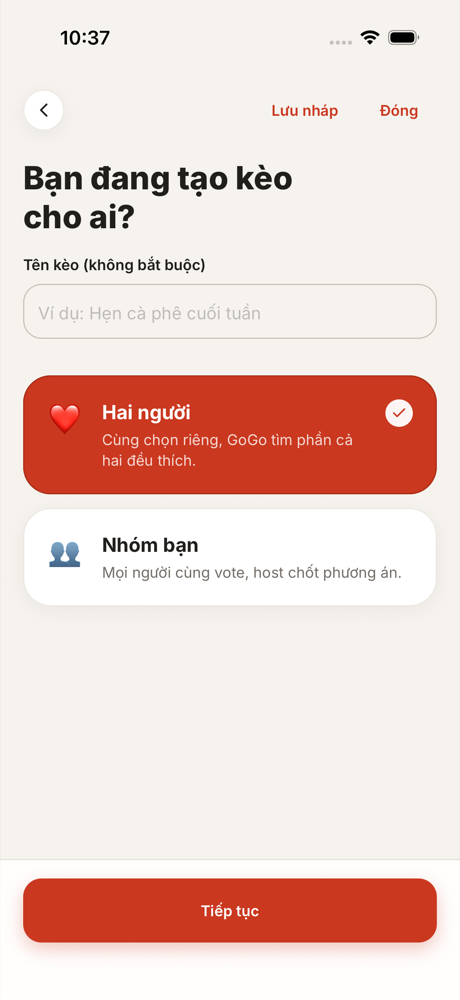
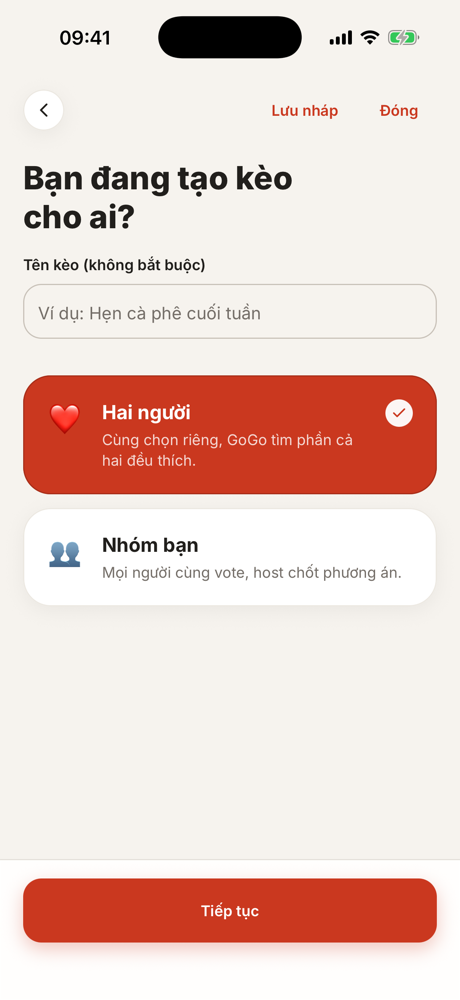
feat: refresh app screenshots with current UI
Seven iOS captures of the redesigned app (develop 63aa2e0 on DEV), one
demo room end to end; credit the Commons photo visible in the vote shot.

diff --git a/site/index.html b/site/index.html
@@ -224,6 +224,7 @@
     footer { padding: 28px 0 44px; border-top: 1px solid var(--line); color: var(--muted); font-size: 14px; }
     footer .wrap { display: flex; flex-wrap: wrap; gap: 8px 24px; justify-content: space-between; align-items: center; }
     footer a { color: var(--ink-2); display: inline-block; padding: 10px 0; }
+    footer .credits { flex-basis: 100%; order: 3; font-size: 13px; }
 
     @media (prefers-reduced-motion: reduce) {
       html { scroll-behavior: auto; }
@@ -266,8 +267,8 @@
         <p class="note">Chưa có bản tải công khai. Bản dùng thử do đội ngũ sắp xếp qua email.</p>
       </div>
       <div class="hero-shots stage" role="group" aria-label="Ảnh màn hình ứng dụng: bình chọn địa điểm và lịch trình nhóm">
-        <div class="phone android"><div class="island" aria-hidden="true"></div><div class="screen"><img src="/img/vote.png" width="448" height="948" alt="Thẻ bình chọn địa điểm Xofa Café &amp; Bistro với ba nút Không hợp, Thích, Rất muốn" fetchpriority="high"></div></div>
-        <div class="phone android"><div class="island" aria-hidden="true"></div><div class="screen"><img src="/img/plan.png" width="448" height="948" alt="Kế hoạch nhóm 3 người: điểm 1 đã khoá, 3 phút di chuyển tới điểm 2, tổng thời gian 3 giờ 16 phút" fetchpriority="high"></div></div>
+        <div class="phone ios"><div class="island" aria-hidden="true"></div><div class="screen"><img src="/img/vote.png" width="460" height="1000" alt="Thẻ bình chọn Tràng Tiền Plaza có ảnh địa điểm, với ba nút Không hợp, Thích, Rất muốn" fetchpriority="high"></div></div>
+        <div class="phone ios"><div class="island" aria-hidden="true"></div><div class="screen"><img src="/img/plan.png" width="460" height="1000" alt="Kế hoạch nhóm 3 người: điểm 1 Bảo tàng Phụ nữ Việt Nam đã khoá, 6 phút di chuyển tới điểm 2, tổng thời gian 3 giờ 18 phút" fetchpriority="high"></div></div>
       </div>
     </div>
 
@@ -275,15 +276,15 @@
       <div class="wrap">
         <p class="eyebrow">Sản phẩm thực tế</p>
         <h2 id="demo-h">Một buổi đi chơi, từ lúc chọn đến khi về</h2>
-        <p class="sub">Ảnh chụp màn hình bản thử nghiệm nội bộ trên iPhone và Android, với dữ liệu thử nghiệm. Giao diện có thể thay đổi trước khi phát hành.</p>
+        <p class="sub">Ảnh chụp màn hình bản thử nghiệm nội bộ (iOS), với dữ liệu thử nghiệm. Giao diện có thể thay đổi trước khi phát hành.</p>
         <ol class="gallery stage">
           <li class="shot"><figure><div class="phone ios"><div class="island" aria-hidden="true"></div><div class="screen"><img src="/img/create-type.png" width="460" height="1000" loading="lazy" alt="Màn hình tạo kèo với hai lựa chọn: Hai người và Nhóm bạn"></div></div><figcaption><strong>Tạo kèo</strong>Chọn đi hai người hay cả nhóm.</figcaption></figure></li>
-          <li class="shot"><figure><div class="phone android"><div class="island" aria-hidden="true"></div><div class="screen"><img src="/img/mood.png" width="460" height="948" loading="lazy" alt="Màn hình chọn mood, không gian và mức chi tiêu"></div></div><figcaption><strong>Nêu sở thích</strong>Mood, không gian, mức chi — vài chạm là xong.</figcaption></figure></li>
-          <li class="shot"><figure><div class="phone android"><div class="island" aria-hidden="true"></div><div class="screen"><img src="/img/vote.png" width="448" height="948" loading="lazy" alt="Thẻ bình chọn địa điểm Xofa Café &amp; Bistro với ba nút Không hợp, Thích, Rất muốn"></div></div><figcaption><strong>Bình chọn</strong>Mỗi người tự chọn Không hợp, Thích hoặc Rất muốn cho từng địa điểm.</figcaption></figure></li>
-          <li class="shot"><figure><div class="phone android"><div class="island" aria-hidden="true"></div><div class="screen"><img src="/img/match.png" width="448" height="948" loading="lazy" alt="Kết quả nhóm: Xofa Café &amp; Bistro được 2/3 người thích, kèm lý do và các lựa chọn khác"></div></div><figcaption><strong>Kết quả chung</strong>Địa điểm cả nhóm thích nhất, kèm lý do GoGo chọn.</figcaption></figure></li>
-          <li class="shot"><figure><div class="phone android"><div class="island" aria-hidden="true"></div><div class="screen"><img src="/img/plan.png" width="448" height="948" loading="lazy" alt="Kế hoạch nhóm 3 người: điểm 1 đã khoá, 3 phút di chuyển tới điểm 2, tổng thời gian 3 giờ 16 phút"></div></div><figcaption><strong>Lịch trình nhóm</strong>Điểm dừng theo thứ tự và thời gian di chuyển; điểm đã khoá được giữ khi tạo lại.</figcaption></figure></li>
-          <li class="shot"><figure><div class="phone android"><div class="island" aria-hidden="true"></div><div class="screen"><img src="/img/active.png" width="448" height="948" loading="lazy" alt="Màn hình buổi đi đang diễn ra: điểm 1 trên 2, bản đồ, nút Xong bước này và Chỉ đường"></div></div><figcaption><strong>Trong ngày đi chơi</strong>Từng điểm một, có bản đồ và chỉ đường.</figcaption></figure></li>
-          <li class="shot"><figure><div class="phone android"><div class="island" aria-hidden="true"></div><div class="screen"><img src="/img/done.png" width="448" height="948" loading="lazy" alt="Màn hình kết thúc buổi đi với hai điểm đã hoàn thành và nút đánh giá"></div></div><figcaption><strong>Kết thúc & đánh giá</strong>Tổng kết buổi đi, rồi mời mọi người đánh giá.</figcaption></figure></li>
+          <li class="shot"><figure><div class="phone ios"><div class="island" aria-hidden="true"></div><div class="screen"><img src="/img/mood.png" width="460" height="1000" loading="lazy" alt="Màn hình chọn mood, đã chọn Thư giãn và Ấm cúng"></div></div><figcaption><strong>Nêu sở thích</strong>Chọn 2–3 mood hợp với buổi đi — vài chạm là xong.</figcaption></figure></li>
+          <li class="shot"><figure><div class="phone ios"><div class="island" aria-hidden="true"></div><div class="screen"><img src="/img/vote.png" width="460" height="1000" loading="lazy" alt="Thẻ bình chọn Tràng Tiền Plaza có ảnh địa điểm, với ba nút Không hợp, Thích, Rất muốn"></div></div><figcaption><strong>Bình chọn</strong>Mỗi người tự chọn Không hợp, Thích hoặc Rất muốn cho từng địa điểm.</figcaption></figure></li>
+          <li class="shot"><figure><div class="phone ios"><div class="island" aria-hidden="true"></div><div class="screen"><img src="/img/match.png" width="460" height="1000" loading="lazy" alt="Kết quả nhóm: Bảo tàng Phụ nữ Việt Nam được 3/3 người thích, kèm lý do và các lựa chọn khác"></div></div><figcaption><strong>Kết quả chung</strong>Địa điểm cả nhóm thích nhất, kèm lý do GoGo chọn.</figcaption></figure></li>
+          <li class="shot"><figure><div class="phone ios"><div class="island" aria-hidden="true"></div><div class="screen"><img src="/img/plan.png" width="460" height="1000" loading="lazy" alt="Kế hoạch nhóm 3 người: điểm 1 Bảo tàng Phụ nữ Việt Nam đã khoá, 6 phút di chuyển tới điểm 2, tổng thời gian 3 giờ 18 phút"></div></div><figcaption><strong>Lịch trình nhóm</strong>Điểm dừng theo thứ tự và thời gian di chuyển; điểm đã khoá được giữ khi tạo lại.</figcaption></figure></li>
+          <li class="shot"><figure><div class="phone ios"><div class="island" aria-hidden="true"></div><div class="screen"><img src="/img/active.png" width="460" height="1000" loading="lazy" alt="Màn hình buổi đi đang diễn ra: điểm 1 trên 2 là Bảo tàng Phụ nữ Việt Nam, bản đồ, nút Xong bước này và Chỉ đường"></div></div><figcaption><strong>Trong ngày đi chơi</strong>Từng điểm một, có bản đồ và chỉ đường.</figcaption></figure></li>
+          <li class="shot"><figure><div class="phone ios"><div class="island" aria-hidden="true"></div><div class="screen"><img src="/img/done.png" width="460" height="1000" loading="lazy" alt="Màn hình kết thúc buổi đi: Bảo tàng Phụ nữ Việt Nam và Tràng Tiền Plaza đã hoàn thành, nút đánh giá"></div></div><figcaption><strong>Kết thúc & đánh giá</strong>Tổng kết buổi đi, rồi mời mọi người đánh giá.</figcaption></figure></li>
         </ol>
       </div>
     </section>
@@ -359,6 +360,7 @@
   <footer>
     <div class="wrap">
       <span>© 2026 GoGo VN · Dự án startup Việt Nam · chưa có pháp nhân</span>
+      <span class="credits">Ảnh địa điểm trong ảnh chụp app: <a href="https://commons.wikimedia.org/wiki/File:Tr%C3%A0ng_Ti%E1%BB%81n_Plaza_-_2022-09-02_01.jpg">Tràng Tiền Plaza</a> — The Hanoian, <a href="https://creativecommons.org/licenses/by-sa/4.0/">CC BY-SA 4.0</a>, Wikimedia Commons</span>
       <span>Hỗ trợ: <a href="mailto:support@gogo.id.vn">support@gogo.id.vn</a> · <a href="/en/" hreflang="en" lang="en">English version</a></span>
     </div>
   </footer>

diff --git a/site/en/index.html b/site/en/index.html
@@ -224,6 +224,7 @@
     footer { padding: 28px 0 44px; border-top: 1px solid var(--line); color: var(--muted); font-size: 14px; }
     footer .wrap { display: flex; flex-wrap: wrap; gap: 8px 24px; justify-content: space-between; align-items: center; }
     footer a { color: var(--ink-2); display: inline-block; padding: 10px 0; }
+    footer .credits { flex-basis: 100%; order: 3; font-size: 13px; }
 
     @media (prefers-reduced-motion: reduce) {
       html { scroll-behavior: auto; }
@@ -266,8 +267,8 @@
         <p class="note">There is no public download yet. Trial access is arranged by the team over email.</p>
       </div>
       <div class="hero-shots stage" role="group" aria-label="App screenshots: voting on a place and the group itinerary">
-        <div class="phone android"><div class="island" aria-hidden="true"></div><div class="screen"><img src="/img/vote.png" width="448" height="948" alt="Voting card for Xofa Café &amp; Bistro with three buttons: not for me, like, really want" fetchpriority="high"></div></div>
-        <div class="phone android"><div class="island" aria-hidden="true"></div><div class="screen"><img src="/img/plan.png" width="448" height="948" alt="Plan for a group of 3: stop 1 locked, 3 minutes to stop 2, total time 3 hours 16 minutes" fetchpriority="high"></div></div>
+        <div class="phone ios"><div class="island" aria-hidden="true"></div><div class="screen"><img src="/img/vote.png" width="460" height="1000" alt="Voting card for Trang Tien Plaza with a photo of the place and three buttons: not for me, like, really want" fetchpriority="high"></div></div>
+        <div class="phone ios"><div class="island" aria-hidden="true"></div><div class="screen"><img src="/img/plan.png" width="460" height="1000" alt="Plan for a group of 3: stop 1, the Vietnamese Women's Museum, locked; 6 minutes to stop 2; total time 3 hours 18 minutes" fetchpriority="high"></div></div>
       </div>
     </div>
 
@@ -275,15 +276,15 @@
       <div class="wrap">
         <p class="eyebrow">The real product</p>
         <h2 id="demo-h">One outing, from choosing to heading home</h2>
-        <p class="sub">Screenshots from our internal test build on iPhone and Android, using test data. The interface may change before release. The app’s interface is in Vietnamese.</p>
+        <p class="sub">Screenshots from our internal test build (iOS), using test data. The interface may change before release. The app’s interface is in Vietnamese.</p>
         <ol class="gallery stage">
           <li class="shot"><figure><div class="phone ios"><div class="island" aria-hidden="true"></div><div class="screen"><img src="/img/create-type.png" width="460" height="1000" loading="lazy" alt="Create-room screen with two options: two people or a friend group"></div></div><figcaption><strong>Create a room</strong>Pick a couple or a group outing.</figcaption></figure></li>
-          <li class="shot"><figure><div class="phone android"><div class="island" aria-hidden="true"></div><div class="screen"><img src="/img/mood.png" width="460" height="948" loading="lazy" alt="Preference screen for mood, setting and spend level"></div></div><figcaption><strong>Share preferences</strong>Mood, setting, spend level — a few taps.</figcaption></figure></li>
-          <li class="shot"><figure><div class="phone android"><div class="island" aria-hidden="true"></div><div class="screen"><img src="/img/vote.png" width="448" height="948" loading="lazy" alt="Voting card for Xofa Café &amp; Bistro with three buttons: not for me, like, really want"></div></div><figcaption><strong>Vote</strong>Each person marks every place as Not for me, Like, or Really want.</figcaption></figure></li>
-          <li class="shot"><figure><div class="phone android"><div class="island" aria-hidden="true"></div><div class="screen"><img src="/img/match.png" width="448" height="948" loading="lazy" alt="Group result: Xofa Café &amp; Bistro liked by 2 of 3 people, with reasons and other options"></div></div><figcaption><strong>Group result</strong>The place the whole group likes most, with the reasons GoGo chose it.</figcaption></figure></li>
-          <li class="shot"><figure><div class="phone android"><div class="island" aria-hidden="true"></div><div class="screen"><img src="/img/plan.png" width="448" height="948" loading="lazy" alt="Plan for a group of 3: stop 1 locked, 3 minutes to stop 2, total time 3 hours 16 minutes"></div></div><figcaption><strong>Group itinerary</strong>Stops in order with travel time; locked stops stay when you regenerate.</figcaption></figure></li>
-          <li class="shot"><figure><div class="phone android"><div class="island" aria-hidden="true"></div><div class="screen"><img src="/img/active.png" width="448" height="948" loading="lazy" alt="Outing in progress: stop 1 of 2 with a map, a done button and directions"></div></div><figcaption><strong>On the day</strong>One stop at a time, with map and directions.</figcaption></figure></li>
-          <li class="shot"><figure><div class="phone android"><div class="island" aria-hidden="true"></div><div class="screen"><img src="/img/done.png" width="448" height="948" loading="lazy" alt="End-of-outing screen with two completed stops and a review button"></div></div><figcaption><strong>Wrap-up & review</strong>A summary of the outing, then everyone is invited to review.</figcaption></figure></li>
+          <li class="shot"><figure><div class="phone ios"><div class="island" aria-hidden="true"></div><div class="screen"><img src="/img/mood.png" width="460" height="1000" loading="lazy" alt="Mood picker with Chill and Cozy selected"></div></div><figcaption><strong>Share preferences</strong>Pick 2–3 moods for the outing — a few taps.</figcaption></figure></li>
+          <li class="shot"><figure><div class="phone ios"><div class="island" aria-hidden="true"></div><div class="screen"><img src="/img/vote.png" width="460" height="1000" loading="lazy" alt="Voting card for Trang Tien Plaza with a photo of the place and three buttons: not for me, like, really want"></div></div><figcaption><strong>Vote</strong>Each person marks every place as Not for me, Like, or Really want.</figcaption></figure></li>
+          <li class="shot"><figure><div class="phone ios"><div class="island" aria-hidden="true"></div><div class="screen"><img src="/img/match.png" width="460" height="1000" loading="lazy" alt="Group result: Vietnamese Women's Museum liked by 3 of 3 people, with reasons and other options"></div></div><figcaption><strong>Group result</strong>The place the whole group likes most, with the reasons GoGo chose it.</figcaption></figure></li>
+          <li class="shot"><figure><div class="phone ios"><div class="island" aria-hidden="true"></div><div class="screen"><img src="/img/plan.png" width="460" height="1000" loading="lazy" alt="Plan for a group of 3: stop 1, the Vietnamese Women's Museum, locked; 6 minutes to stop 2; total time 3 hours 18 minutes"></div></div><figcaption><strong>Group itinerary</strong>Stops in order with travel time; locked stops stay when you regenerate.</figcaption></figure></li>
+          <li class="shot"><figure><div class="phone ios"><div class="island" aria-hidden="true"></div><div class="screen"><img src="/img/active.png" width="460" height="1000" loading="lazy" alt="Outing in progress: stop 1 of 2, the Vietnamese Women's Museum, with a map, a done button and directions"></div></div><figcaption><strong>On the day</strong>One stop at a time, with map and directions.</figcaption></figure></li>
+          <li class="shot"><figure><div class="phone ios"><div class="island" aria-hidden="true"></div><div class="screen"><img src="/img/done.png" width="460" height="1000" loading="lazy" alt="End-of-outing screen: Vietnamese Women's Museum and Trang Tien Plaza completed, with a review button"></div></div><figcaption><strong>Wrap-up & review</strong>A summary of the outing, then everyone is invited to review.</figcaption></figure></li>
         </ol>
       </div>
     </section>
@@ -359,6 +360,7 @@
   <footer>
     <div class="wrap">
       <span>© 2026 GoGo VN · A Vietnamese startup project · no legal entity yet</span>
+      <span class="credits">Place photo in the app screenshots: <a href="https://commons.wikimedia.org/wiki/File:Tr%C3%A0ng_Ti%E1%BB%81n_Plaza_-_2022-09-02_01.jpg">Tràng Tiền Plaza</a> — The Hanoian, <a href="https://creativecommons.org/licenses/by-sa/4.0/">CC BY-SA 4.0</a>, Wikimedia Commons</span>
       <span>Support: <a href="mailto:support@gogo.id.vn">support@gogo.id.vn</a> · <a href="/" hreflang="vi" lang="vi">Phiên bản tiếng Việt</a></span>
     </div>
   </footer>

diff --git a/src/template.html b/src/template.html
@@ -224,6 +224,7 @@
     footer { padding: 28px 0 44px; border-top: 1px solid var(--line); color: var(--muted); font-size: 14px; }
     footer .wrap { display: flex; flex-wrap: wrap; gap: 8px 24px; justify-content: space-between; align-items: center; }
     footer a { color: var(--ink-2); display: inline-block; padding: 10px 0; }
+    footer .credits { flex-basis: 100%; order: 3; font-size: 13px; }
 
     @media (prefers-reduced-motion: reduce) {
       html { scroll-behavior: auto; }
@@ -266,8 +267,8 @@
         <p class="note">{{hero.note}}</p>
       </div>
       <div class="hero-shots stage" role="group" aria-label="{{a.heroShots}}">
-        <div class="phone android"><div class="island" aria-hidden="true"></div><div class="screen"><img src="/img/vote.png" width="448" height="948" alt="{{a.s3}}" fetchpriority="high"></div></div>
-        <div class="phone android"><div class="island" aria-hidden="true"></div><div class="screen"><img src="/img/plan.png" width="448" height="948" alt="{{a.s5}}" fetchpriority="high"></div></div>
+        <div class="phone ios"><div class="island" aria-hidden="true"></div><div class="screen"><img src="/img/vote.png" width="460" height="1000" alt="{{a.s3}}" fetchpriority="high"></div></div>
+        <div class="phone ios"><div class="island" aria-hidden="true"></div><div class="screen"><img src="/img/plan.png" width="460" height="1000" alt="{{a.s5}}" fetchpriority="high"></div></div>
       </div>
     </div>
 
@@ -353,6 +354,7 @@
   <footer>
     <div class="wrap">
       <span>© 2026 GoGo VN · {{foot.project}}</span>
+      <span class="credits">{{foot.photo}} <a href="https://commons.wikimedia.org/wiki/File:Tr%C3%A0ng_Ti%E1%BB%81n_Plaza_-_2022-09-02_01.jpg">Tràng Tiền Plaza</a> — The Hanoian, <a href="https://creativecommons.org/licenses/by-sa/4.0/">CC BY-SA 4.0</a>, Wikimedia Commons</span>
       <span>{{foot.support}} <a href="mailto:{{@mail}}">{{@mail}}</a> · <a href="{{@otherPath}}" hreflang="{{@otherLang}}" lang="{{@otherLang}}">{{foot.lang}}</a></span>
     </div>
   </footer>
